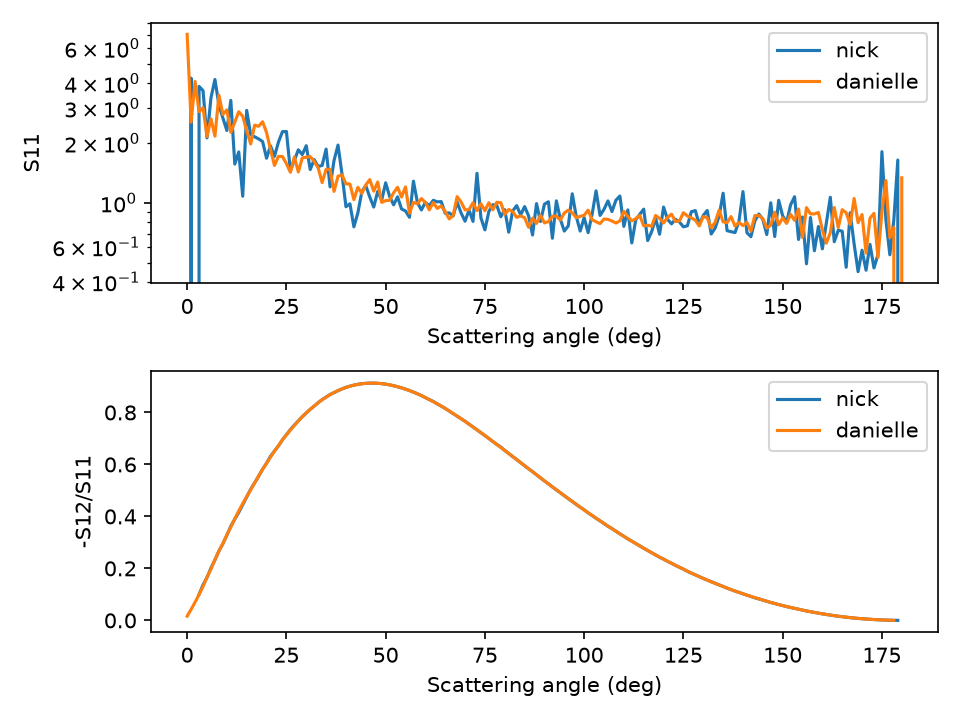
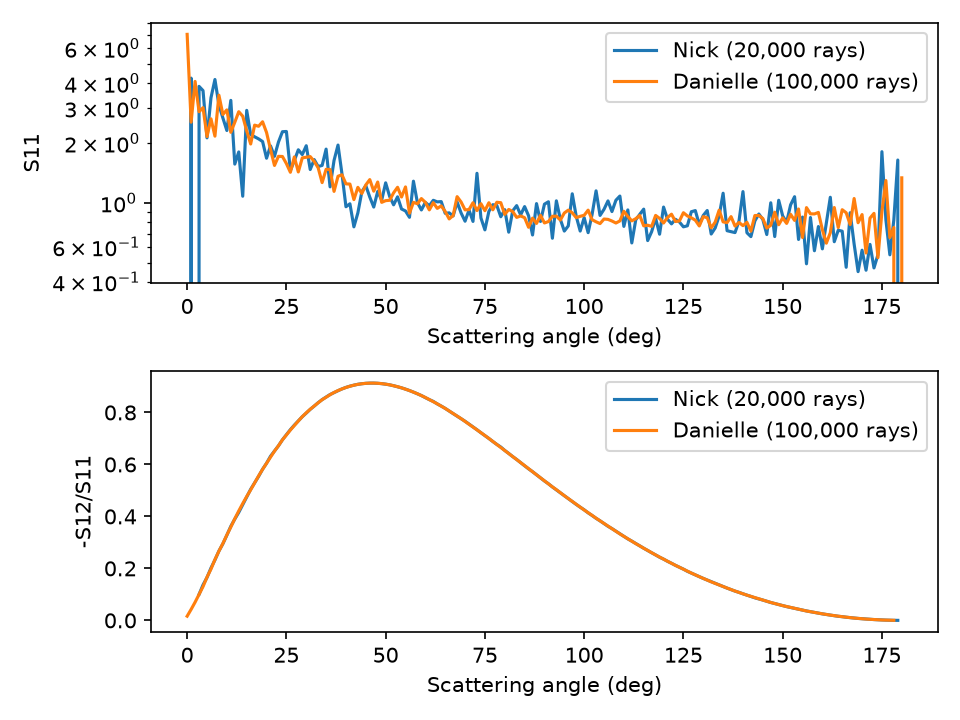
Relabel comparison plot legends with names and ray counts

Changed region(s): [[0.625, 0.0306, 0.9688, 0.1528], [0.625, 0.5194, 0.9688, 0.6111]]

diff --git a/multi-particle/example/my_runs/amorphous_carbon_200/compare.py b/multi-particle/example/my_runs/amorphous_carbon_200/compare.py
@@ -28,11 +28,11 @@ print(pol_danielle[np.nanargmax(pol_danielle)])
 # plot the data
 fig, axes = plt.subplots(2,1)
 
-axes[0].plot(angle_nick, s11_nick, label="nick")
-axes[0].plot(angle_danielle, s11_danielle, label="danielle")
+axes[0].plot(angle_nick, s11_nick, label="Nick (20,000 rays)")
+axes[0].plot(angle_danielle, s11_danielle, label="Danielle (100,000 rays)")
 
-axes[1].plot(angle_nick, pol_nick, label="nick")
-axes[1].plot(angle_danielle, pol_danielle, label="danielle")
+axes[1].plot(angle_nick, pol_nick, label="Nick (20,000 rays)")
+axes[1].plot(angle_danielle, pol_danielle, label="Danielle (100,000 rays)")
 
 axes[0].set_yscale("log")
 

diff --git a/multi-particle/example/my_runs/water_ice_20/compare.py b/multi-particle/example/my_runs/water_ice_20/compare.py
@@ -28,11 +28,11 @@ print(pol_danielle[np.nanargmax(pol_danielle)])
 # plot the data
 fig, axes = plt.subplots(2,1)
 
-axes[0].plot(angle_nick, s11_nick, label="nick")
-axes[0].plot(angle_danielle, s11_danielle, label="danielle")
+axes[0].plot(angle_nick, s11_nick, label="Nick (20,000 rays)")
+axes[0].plot(angle_danielle, s11_danielle, label="Danielle (100,000 rays)")
 
-axes[1].plot(angle_nick, pol_nick, label="nick")
-axes[1].plot(angle_danielle, pol_danielle, label="danielle")
+axes[1].plot(angle_nick, pol_nick, label="Nick (20,000 rays)")
+axes[1].plot(angle_danielle, pol_danielle, label="Danielle (100,000 rays)")
 
 axes[0].set_yscale("log")
 
